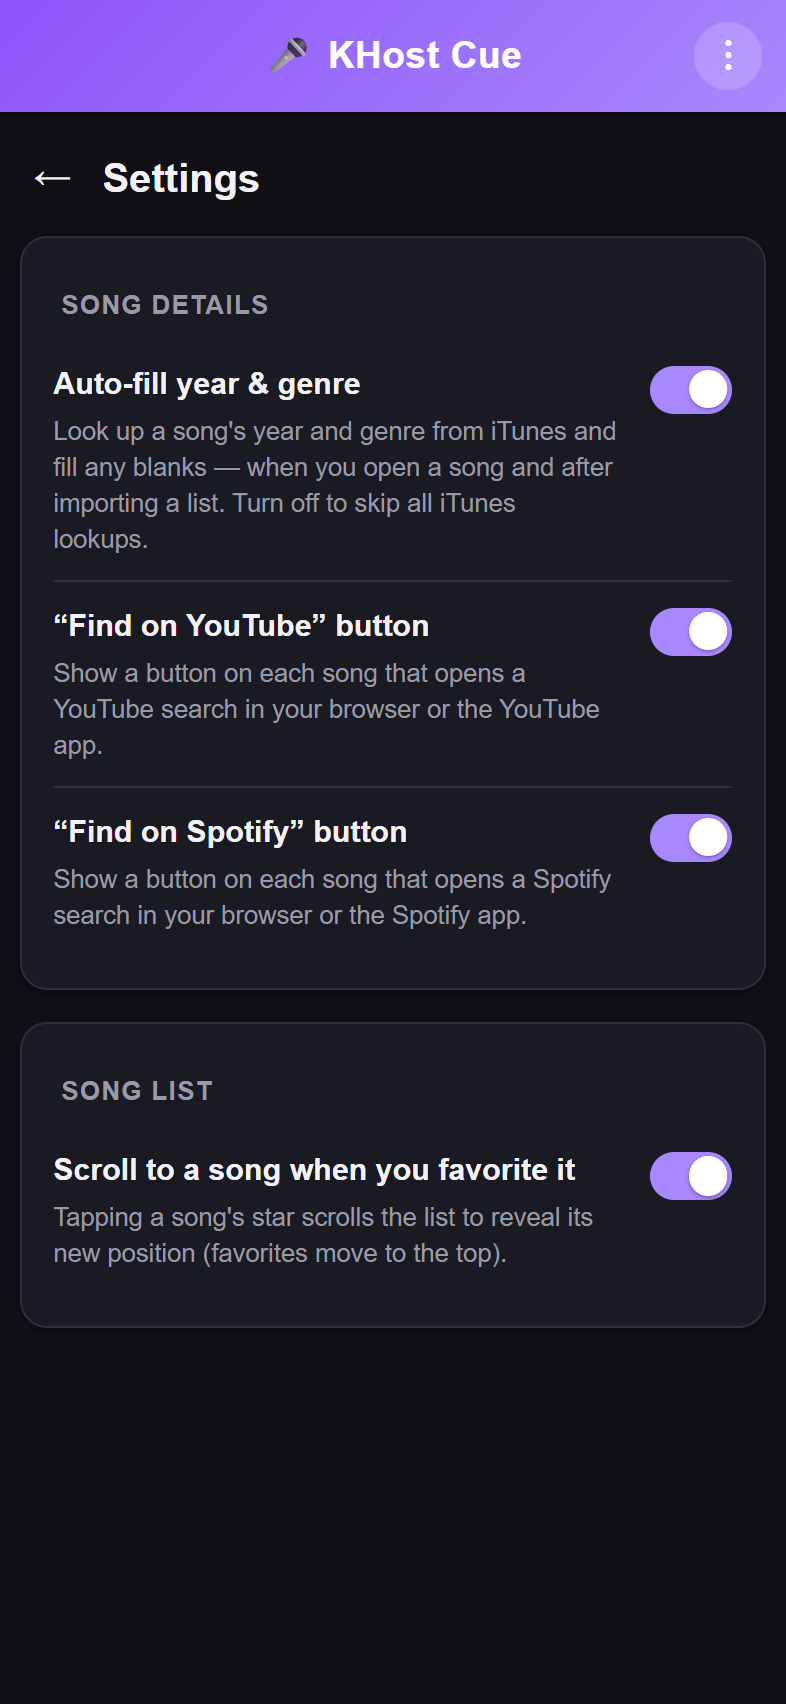
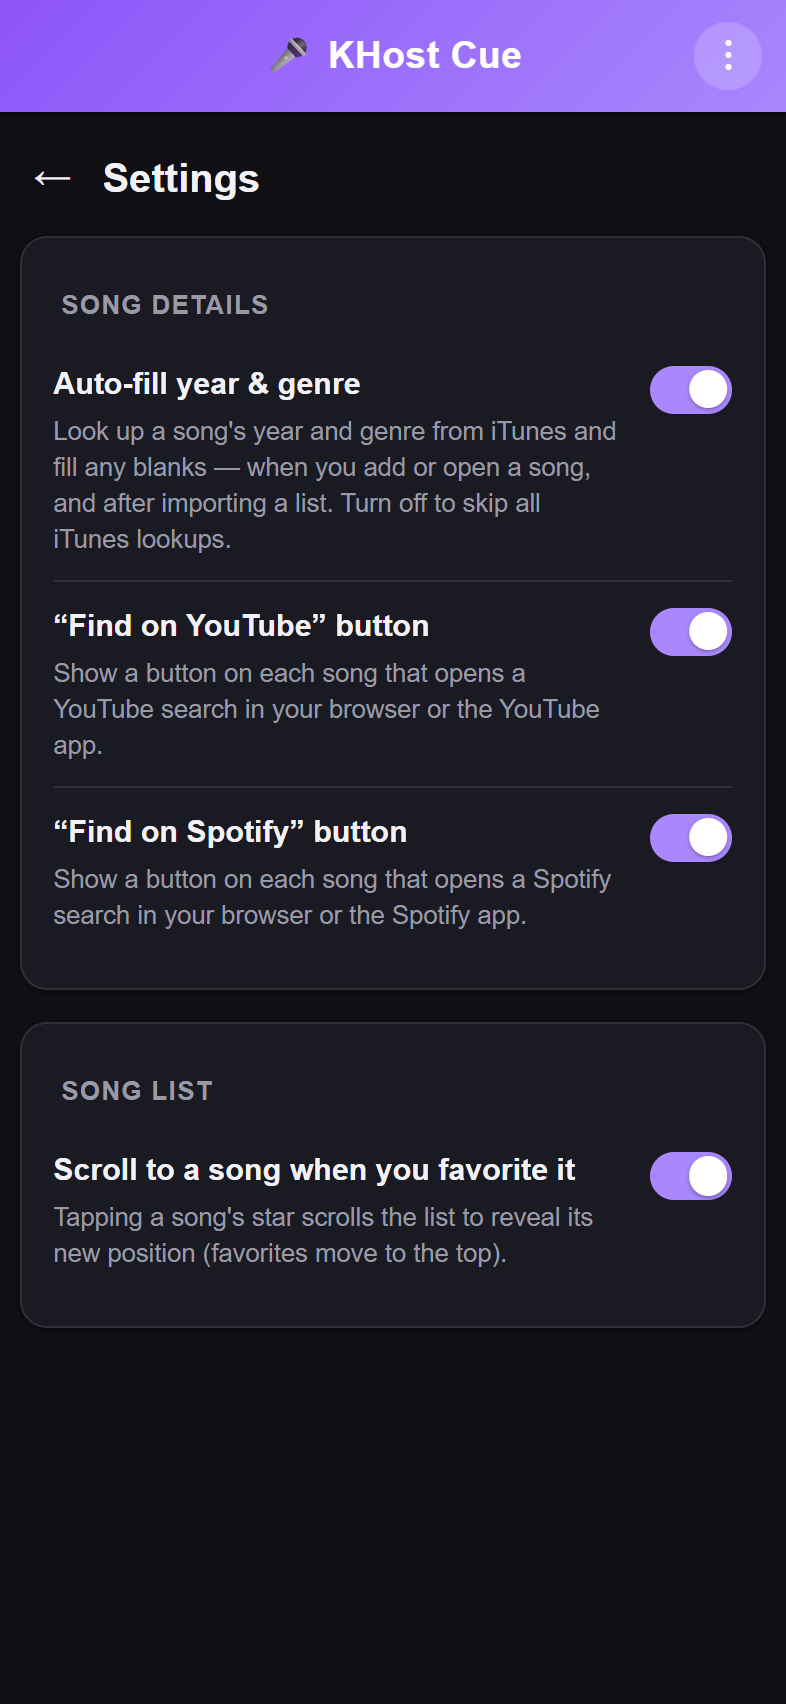
Refine add-form auto-fill hint; remove list hint; add test playlist
- Badge Genre and Release year labels with a ✨ star; rewrite the add-form
  note as a legend ('Leave a starred field blank and we'll look it up online
  when you add the song') so it explains the symbol instead of naming fields,
  and drop the 'from iTunes' wording.
- Remove the 'Tap a card to open · swipe left to remove' list hint and its
  now-unused .list-hint / .section-title--row CSS.
- Document a public YouTube Music playlist as sample import data for testing
  (README + CLAUDE.md).
- Refresh the my-songs and settings README screenshots.

Changed region(s): [[0.0611, 0.2488, 0.7634, 0.3421]]

diff --git a/KHost.Mobile/wwwroot/app.css b/KHost.Mobile/wwwroot/app.css
@@ -839,21 +839,6 @@ html, body {
 }
 #kh-swipe-label.is-armed { filter: brightness(1.12); }
 
-.section-title--row {
-    display: flex;
-    align-items: baseline;
-    justify-content: space-between;
-    gap: 0.5rem;
-}
-.list-hint {
-    font-size: 0.72rem;
-    font-weight: 400;
-    text-transform: none;    /* don't inherit the section-title's uppercase */
-    letter-spacing: normal;
-    color: var(--kh-text-muted);
-    white-space: nowrap;
-}
-
 /* Sort controls that replace the old table header — a row of sort buttons above the cards. */
 .sort-bar {
     display: flex;

diff --git a/README.md b/README.md
@@ -58,6 +58,14 @@ dotnet run --project KHost.Mobile -f net10.0-windows10.[phone redacted] "-p:BaseOutputP
 
 > `-p:BaseOutputPath=./obj/_build` keeps build output out of the IDE's `bin/` folder so it doesn't get locked while the IDE is open.
 
+### Sample data for testing
+
+Need songs to populate the list while testing? This public **YouTube Music** playlist imports cleanly via **Import & Export → YouTube Music**:
+
+```
+https://music.youtube.com/playlist?list=PLrB1lrYJ3YfvS2ZaTJZ_D8vvIv_fowkNM
+```
+
 ## 📁 Project structure
 
 | Project | Role |

diff --git a/CLAUDE.md b/CLAUDE.md
@@ -91,6 +91,7 @@ Eventual slice: **join venue → search library → request song → live queue*
 - **`FileSystem.AppDataDirectory` is the `Data` SUBFOLDER**, i.e. `%LOCALAPPDATA%\KHost\khost.mobile\Data\` on unpackaged Windows (the parent folders are the appxmanifest `PublisherDisplayName` = `KHost` and the `ApplicationId` = `khost.mobile`) — NOT the parent `khost.mobile\`. Seeding/inspecting persisted state must target `Data\`. NOTE: builds from *before* the publisher/id rename wrote to the legacy `%LOCALAPPDATA%\User Name\com.companyname.khost.mobile\Data\`; that stale copy is ignored by current builds.
 - The template's `Components/Routes.razor` has `FocusOnNavigate Selector="h1"`; pages here have no `<h1>`, so nothing auto-focuses. Harmless, but don't rely on autofocus.
 - **UI test automation on the Windows head is flaky** — WebView2 swallows the *first* SendKeys burst after launch, and page scroll position varies between launches (fixed click coords drift). For persistence checks, prefer seeding/reading `Data\song-list.json` directly over driving the form.
+- **Sample import data for testing** — this public YouTube Music playlist imports cleanly via Import & Export → YouTube Music, handy for populating the list: `https://music.youtube.com/playlist?list=PLrB1lrYJ3YfvS2ZaTJZ_D8vvIv_fowkNM`
 - Do NOT commit or push unless explicitly asked. Secrets via user-secrets/config — never hard-coded or committed.
 
 ## Conventions